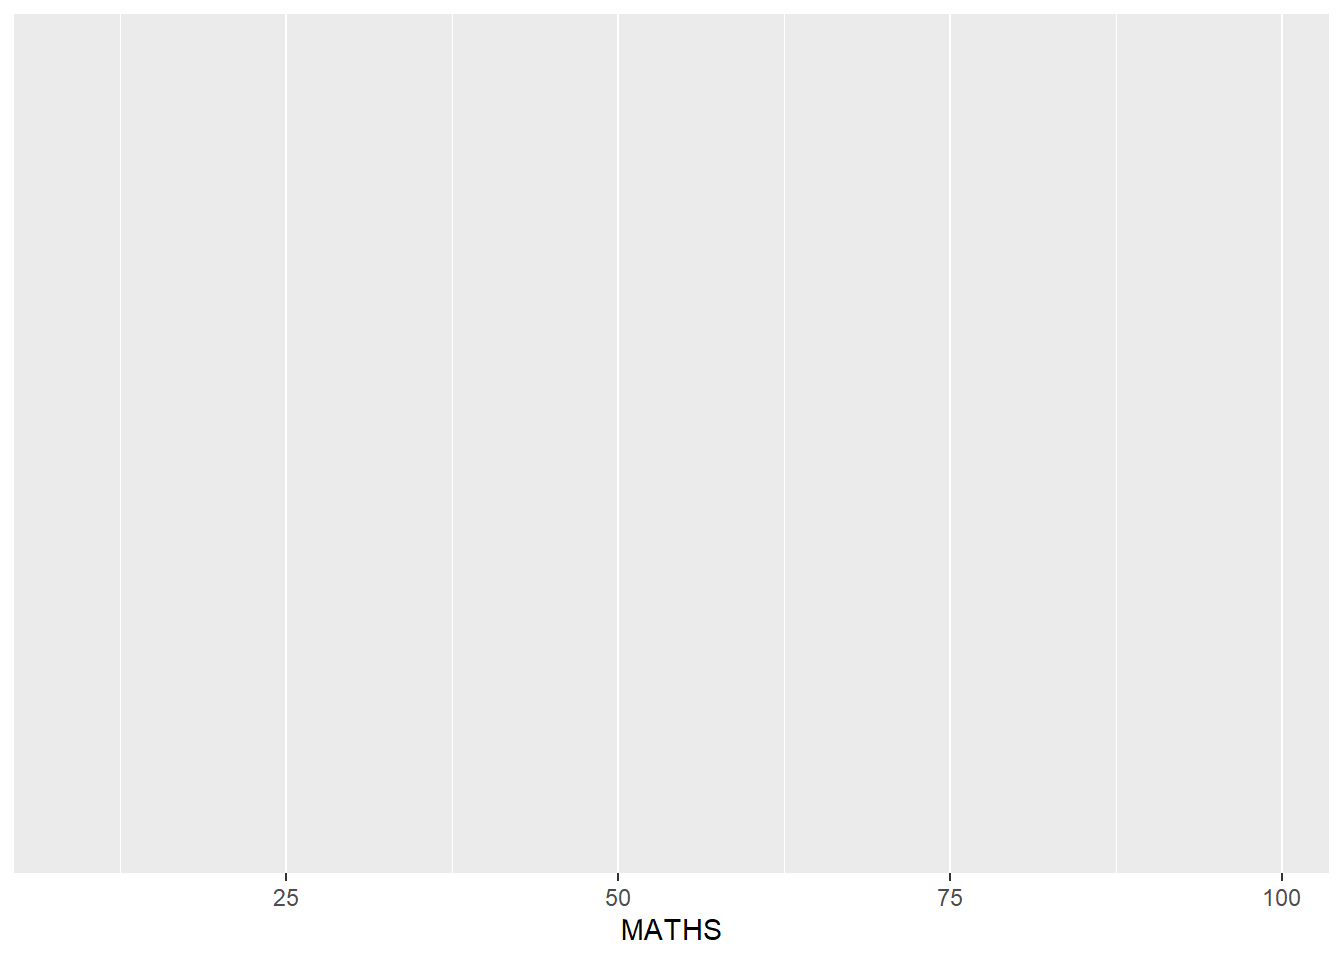
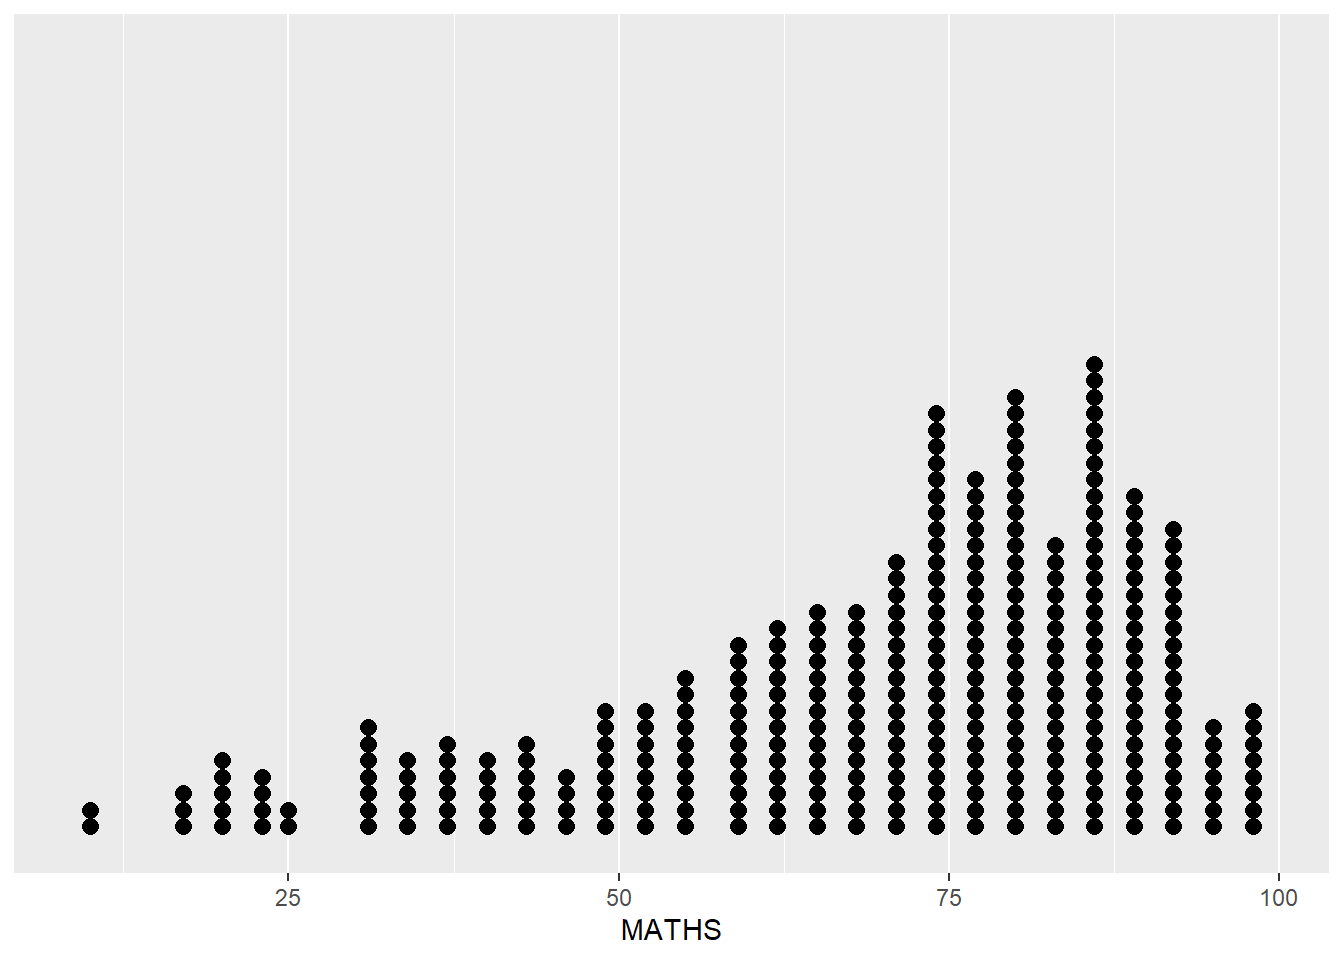
Commit and see

diff --git a/_site/Hands-On_Ex/Hands-on_Ex01/Hands-on_Ex01.html b/_site/Hands-On_Ex/Hands-on_Ex01/Hands-on_Ex01.html
@@ -171,12 +171,10 @@ pre > code.sourceCode > span > a:first-child::before { text-decoration: underlin
   <li><a href="#importing-the-data" id="toc-importing-the-data" class="nav-link" data-scroll-target="#importing-the-data">Importing the data</a></li>
   </ul></li>
   <li><a href="#plotting-a-simple-bar-chart" id="toc-plotting-a-simple-bar-chart" class="nav-link" data-scroll-target="#plotting-a-simple-bar-chart">Plotting a simple bar chart</a></li>
-  <li><a href="#r-graphics-vs-ggplot" id="toc-r-graphics-vs-ggplot" class="nav-link" data-scroll-target="#r-graphics-vs-ggplot">1.3.1 R Graphics VS ggplot</a>
+  <li><a href="#r-graphics-vs-ggplot" id="toc-r-graphics-vs-ggplot" class="nav-link" data-scroll-target="#r-graphics-vs-ggplot">R Graphics VS ggplot</a>
   <ul class="collapse">
   <li><a href="#r-graphics" id="toc-r-graphics" class="nav-link" data-scroll-target="#r-graphics">R Graphics</a></li>
   <li><a href="#ggplot2" id="toc-ggplot2" class="nav-link" data-scroll-target="#ggplot2">ggplot2</a></li>
-  <li><a href="#essential-grammatical-elements-in-ggplot2-data" id="toc-essential-grammatical-elements-in-ggplot2-data" class="nav-link" data-scroll-target="#essential-grammatical-elements-in-ggplot2-data">Essential Grammatical Elements in ggplot2: data</a></li>
-  <li><a href="#essential-grammatical-elements-in-ggplot2-aesthetic-mappings" id="toc-essential-grammatical-elements-in-ggplot2-aesthetic-mappings" class="nav-link" data-scroll-target="#essential-grammatical-elements-in-ggplot2-aesthetic-mappings">Essential Grammatical Elements in ggplot2: Aesthetic mappings</a></li>
   <li><a href="#geometric-objects-geom_dotplot" id="toc-geometric-objects-geom_dotplot" class="nav-link" data-scroll-target="#geometric-objects-geom_dotplot">Geometric Objects: geom_dotplot</a></li>
   <li><a href="#geometric-objects-geom_histogram" id="toc-geometric-objects-geom_histogram" class="nav-link" data-scroll-target="#geometric-objects-geom_histogram">Geometric Objects: geom_histogram()</a></li>
   </ul></li>
@@ -253,7 +251,7 @@ dbl (3): ENGLISH, MATHS, SCIENCE
 </div>
 </section>
 <section id="r-graphics-vs-ggplot" class="level1">
-<h1>1.3.1 R Graphics VS ggplot</h1>
+<h1>R Graphics VS ggplot</h1>
 <section id="r-graphics" class="level2">
 <h2 class="anchored" data-anchor-id="r-graphics">R Graphics</h2>
 <div class="cell">
@@ -285,10 +283,16 @@ dbl (3): ENGLISH, MATHS, SCIENCE
 </div>
 </div>
 </section>
-<section id="essential-grammatical-elements-in-ggplot2-data" class="level2">
-<h2 class="anchored" data-anchor-id="essential-grammatical-elements-in-ggplot2-data">Essential Grammatical Elements in ggplot2: data</h2>
+<section id="geometric-objects-geom_dotplot" class="level2">
+<h2 class="anchored" data-anchor-id="geometric-objects-geom_dotplot">Geometric Objects: geom_dotplot</h2>
 <div class="cell">
-<div class="code-copy-outer-scaffold"><div class="sourceCode cell-code" id="cb7"><pre class="sourceCode r code-with-copy"><code class="sourceCode r"><span id="cb7-1"><a href="#cb7-1" aria-hidden="true" tabindex="-1"></a><span class="fu">ggplot</span>(<span class="at">data=</span>exam_data)</span></code></pre></div><button title="Copy to Clipboard" class="code-copy-button"><i class="bi"></i></button></div>
+<div class="code-copy-outer-scaffold"><div class="sourceCode cell-code" id="cb7"><pre class="sourceCode r code-with-copy"><code class="sourceCode r"><span id="cb7-1"><a href="#cb7-1" aria-hidden="true" tabindex="-1"></a><span class="fu">ggplot</span>(<span class="at">data=</span>exam_data, </span>
+<span id="cb7-2"><a href="#cb7-2" aria-hidden="true" tabindex="-1"></a>       <span class="fu">aes</span>(<span class="at">x =</span> MATHS)) <span class="sc">+</span></span>
+<span id="cb7-3"><a href="#cb7-3" aria-hidden="true" tabindex="-1"></a>  <span class="fu">geom_dotplot</span>(<span class="at">dotsize =</span> <span class="fl">0.5</span>)</span></code></pre></div><button title="Copy to Clipboard" class="code-copy-button"><i class="bi"></i></button></div>
+<div class="cell-output cell-output-stderr">
+<pre><code>Bin width defaults to 1/30 of the range of the data. Pick better value with
+`binwidth`.</code></pre>
+</div>
 <div class="cell-output-display">
 <div>
 <figure class="figure">
@@ -297,14 +301,14 @@ dbl (3): ENGLISH, MATHS, SCIENCE
 </div>
 </div>
 </div>
-<p>A blank canvas appears.</p>
-</section>
-<section id="essential-grammatical-elements-in-ggplot2-aesthetic-mappings" class="level2">
-<h2 class="anchored" data-anchor-id="essential-grammatical-elements-in-ggplot2-aesthetic-mappings">Essential Grammatical Elements in ggplot2: Aesthetic mappings</h2>
-<p>This will add the aesthetic mappings.</p>
+<p>The y scale not very useful, in fact misleading. Code below will turn off the y-axis and change the binwidth</p>
 <div class="cell">
-<div class="code-copy-outer-scaffold"><div class="sourceCode cell-code" id="cb8"><pre class="sourceCode r code-with-copy"><code class="sourceCode r"><span id="cb8-1"><a href="#cb8-1" aria-hidden="true" tabindex="-1"></a><span class="fu">ggplot</span>(<span class="at">data=</span>exam_data, </span>
-<span id="cb8-2"><a href="#cb8-2" aria-hidden="true" tabindex="-1"></a>       <span class="fu">aes</span>(<span class="at">x=</span> MATHS))</span></code></pre></div><button title="Copy to Clipboard" class="code-copy-button"><i class="bi"></i></button></div>
+<div class="code-copy-outer-scaffold"><div class="sourceCode cell-code" id="cb9"><pre class="sourceCode r code-with-copy"><code class="sourceCode r"><span id="cb9-1"><a href="#cb9-1" aria-hidden="true" tabindex="-1"></a><span class="fu">ggplot</span>(<span class="at">data=</span>exam_data, </span>
+<span id="cb9-2"><a href="#cb9-2" aria-hidden="true" tabindex="-1"></a>       <span class="fu">aes</span>(<span class="at">x =</span> MATHS)) <span class="sc">+</span></span>
+<span id="cb9-3"><a href="#cb9-3" aria-hidden="true" tabindex="-1"></a>  <span class="fu">geom_dotplot</span>(<span class="at">binwidth=</span><span class="fl">2.5</span>,         </span>
+<span id="cb9-4"><a href="#cb9-4" aria-hidden="true" tabindex="-1"></a>               <span class="at">dotsize =</span> <span class="fl">0.5</span>) <span class="sc">+</span>      </span>
+<span id="cb9-5"><a href="#cb9-5" aria-hidden="true" tabindex="-1"></a>  <span class="fu">scale_y_continuous</span>(<span class="cn">NULL</span>,           </span>
+<span id="cb9-6"><a href="#cb9-6" aria-hidden="true" tabindex="-1"></a>                     <span class="at">breaks =</span> <span class="cn">NULL</span>)  </span></code></pre></div><button title="Copy to Clipboard" class="code-copy-button"><i class="bi"></i></button></div>
 <div class="cell-output-display">
 <div>
 <figure class="figure">
@@ -314,54 +318,19 @@ dbl (3): ENGLISH, MATHS, SCIENCE
 </div>
 </div>
 </section>
-<section id="geometric-objects-geom_dotplot" class="level2">
-<h2 class="anchored" data-anchor-id="geometric-objects-geom_dotplot">Geometric Objects: geom_dotplot</h2>
-<div class="cell">
-<div class="code-copy-outer-scaffold"><div class="sourceCode cell-code" id="cb9"><pre class="sourceCode r code-with-copy"><code class="sourceCode r"><span id="cb9-1"><a href="#cb9-1" aria-hidden="true" tabindex="-1"></a><span class="fu">ggplot</span>(<span class="at">data=</span>exam_data, </span>
-<span id="cb9-2"><a href="#cb9-2" aria-hidden="true" tabindex="-1"></a>       <span class="fu">aes</span>(<span class="at">x =</span> MATHS)) <span class="sc">+</span></span>
-<span id="cb9-3"><a href="#cb9-3" aria-hidden="true" tabindex="-1"></a>  <span class="fu">geom_dotplot</span>(<span class="at">dotsize =</span> <span class="fl">0.5</span>)</span></code></pre></div><button title="Copy to Clipboard" class="code-copy-button"><i class="bi"></i></button></div>
-<div class="cell-output cell-output-stderr">
-<pre><code>Bin width defaults to 1/30 of the range of the data. Pick better value with
-`binwidth`.</code></pre>
-</div>
-<div class="cell-output-display">
-<div>
-<figure class="figure">
-<p><img src="Hands-on_Ex01_files/figure-html/unnamed-chunk-8-1.png" class="img-fluid figure-img" width="672"></p>
-</figure>
-</div>
-</div>
-</div>
-<p>The y scale not very useful, in fact misleading. Code below will turn off the y-axis and change the binwidth</p>
-<div class="cell">
-<div class="code-copy-outer-scaffold"><div class="sourceCode cell-code" id="cb11"><pre class="sourceCode r code-with-copy"><code class="sourceCode r"><span id="cb11-1"><a href="#cb11-1" aria-hidden="true" tabindex="-1"></a><span class="fu">ggplot</span>(<span class="at">data=</span>exam_data, </span>
-<span id="cb11-2"><a href="#cb11-2" aria-hidden="true" tabindex="-1"></a>       <span class="fu">aes</span>(<span class="at">x =</span> MATHS)) <span class="sc">+</span></span>
-<span id="cb11-3"><a href="#cb11-3" aria-hidden="true" tabindex="-1"></a>  <span class="fu">geom_dotplot</span>(<span class="at">binwidth=</span><span class="fl">2.5</span>,         </span>
-<span id="cb11-4"><a href="#cb11-4" aria-hidden="true" tabindex="-1"></a>               <span class="at">dotsize =</span> <span class="fl">0.5</span>) <span class="sc">+</span>      </span>
-<span id="cb11-5"><a href="#cb11-5" aria-hidden="true" tabindex="-1"></a>  <span class="fu">scale_y_continuous</span>(<span class="cn">NULL</span>,           </span>
-<span id="cb11-6"><a href="#cb11-6" aria-hidden="true" tabindex="-1"></a>                     <span class="at">breaks =</span> <span class="cn">NULL</span>)  </span></code></pre></div><button title="Copy to Clipboard" class="code-copy-button"><i class="bi"></i></button></div>
-<div class="cell-output-display">
-<div>
-<figure class="figure">
-<p><img src="Hands-on_Ex01_files/figure-html/unnamed-chunk-9-1.png" class="img-fluid figure-img" width="672"></p>
-</figure>
-</div>
-</div>
-</div>
-</section>
 <section id="geometric-objects-geom_histogram" class="level2">
 <h2 class="anchored" data-anchor-id="geometric-objects-geom_histogram">Geometric Objects: geom_histogram()</h2>
 <div class="cell">
-<div class="code-copy-outer-scaffold"><div class="sourceCode cell-code" id="cb12"><pre class="sourceCode r code-with-copy"><code class="sourceCode r"><span id="cb12-1"><a href="#cb12-1" aria-hidden="true" tabindex="-1"></a><span class="fu">ggplot</span>(<span class="at">data=</span>exam_data, </span>
-<span id="cb12-2"><a href="#cb12-2" aria-hidden="true" tabindex="-1"></a>       <span class="fu">aes</span>(<span class="at">x =</span> MATHS)) <span class="sc">+</span></span>
-<span id="cb12-3"><a href="#cb12-3" aria-hidden="true" tabindex="-1"></a>  <span class="fu">geom_histogram</span>()       </span></code></pre></div><button title="Copy to Clipboard" class="code-copy-button"><i class="bi"></i></button></div>
+<div class="code-copy-outer-scaffold"><div class="sourceCode cell-code" id="cb10"><pre class="sourceCode r code-with-copy"><code class="sourceCode r"><span id="cb10-1"><a href="#cb10-1" aria-hidden="true" tabindex="-1"></a><span class="fu">ggplot</span>(<span class="at">data=</span>exam_data, </span>
+<span id="cb10-2"><a href="#cb10-2" aria-hidden="true" tabindex="-1"></a>       <span class="fu">aes</span>(<span class="at">x =</span> MATHS)) <span class="sc">+</span></span>
+<span id="cb10-3"><a href="#cb10-3" aria-hidden="true" tabindex="-1"></a>  <span class="fu">geom_histogram</span>()       </span></code></pre></div><button title="Copy to Clipboard" class="code-copy-button"><i class="bi"></i></button></div>
 <div class="cell-output cell-output-stderr">
 <pre><code>`stat_bin()` using `bins = 30`. Pick better value `binwidth`.</code></pre>
 </div>
 <div class="cell-output-display">
 <div>
 <figure class="figure">
-<p><img src="Hands-on_Ex01_files/figure-html/unnamed-chunk-10-1.png" class="img-fluid figure-img" width="672"></p>
+<p><img src="Hands-on_Ex01_files/figure-html/unnamed-chunk-8-1.png" class="img-fluid figure-img" width="672"></p>
 </figure>
 </div>
 </div>
